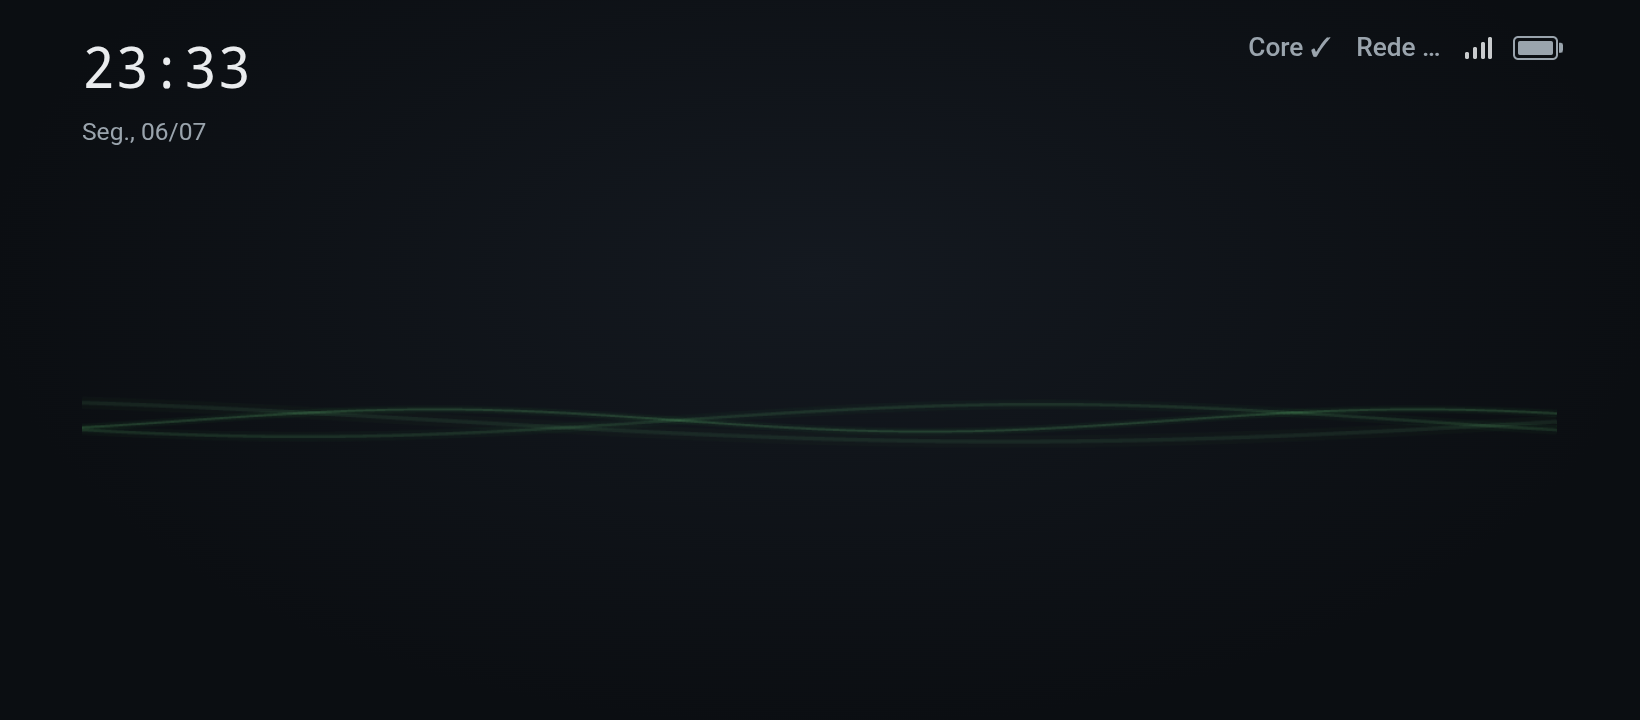
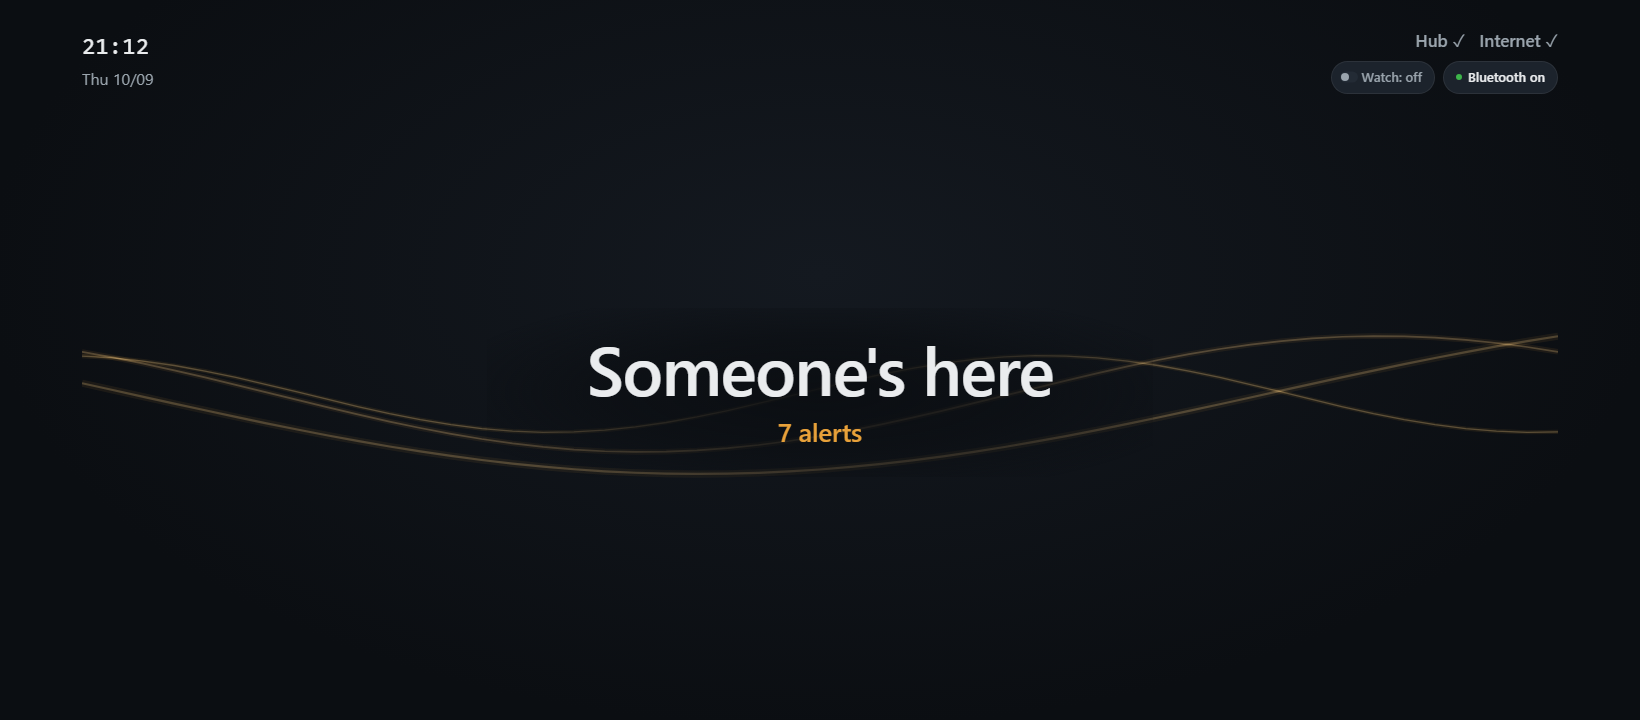
release: the build the first tag found, and a README that matches the product (#3)
* readme: show the Wavr that exists now

Three of the four screenshots were from July. `demo.png` showed a navigation
renamed in 0.3.0 — Home / History / Network / Devices / System — and a
composition replaced in this release: the sensing meter as the dominant block,
the map in a right-hand column. `hero.gif` predates the same rename. Anyone
landing on this repository saw two versions of Wavr, one of them on screen and
one of them true.

Replaced with the current UI, and the captions with them. The Core panel's read
"glance-free status in the corners: clock, Core and network health" — the clock
is no longer the headline and the state is no longer in a corner, so the caption
now says what the surface does: what is happening in your Space is the largest
thing on it.

Also: a mobile screenshot in place of a platforms montage, because a real screen
argues better than a diagram of screens; one row in "What you get" for the
composition itself; and the opening line says "a physical Space" rather than "a
map of your space", which is the noun the product uses everywhere else.

Same number of images as before. Every relative link, image path, documented
command and the promised exit codes were checked against this tree.

* release: install the extra the freeze spec refuses to build without

`wavr-core.spec` will not produce a Core without `zeroconf`, and says why in the
error it raises: that import is lazy, so a build without it SUCCEEDS and ships a
[…]

diff --git a/backend/tests/test_the_release_installs_what_the_spec_demands.py b/backend/tests/test_the_release_installs_what_the_spec_demands.py
@@ -1,0 +1,87 @@
+"""The freeze spec states its requirements. Something has to satisfy them.
+
+`desktop/sidecar/wavr-core.spec` refuses to build a Core without `zeroconf`,
+and explains why in the error it raises: that import is lazy, so a build
+WITHOUT it succeeds and produces a Core that never advertises `_wavr._tcp` —
+and the phone's "Find your Wavr hub" then spends a minute failing to find a hub
+that was never there. The guard exists because that shipped once.
+
+The release workflow installed `backend` with no extras. So the guard fired,
+the Windows job died at `pip install`, and the two jobs after it — the installer
+smoke test and the draft release — were skipped. No artifacts, no release.
+
+Nobody knew, because this repository has no releases: the first real tag was
+the first time that job ran to the end.
+
+This is the missing half. The spec declares what it needs; this asserts the
+workflow installs it. A requirement with nobody satisfying it is the defect
+class this repository names out loud in its own contributing guide — *a
+guarantee needs a producer* — and here the guarantee had been written down for
+months with nothing on the other side of it.
+"""
+from __future__ import annotations
+
+import re
+from pathlib import Path
+
+import pytest
+
+ROOT = Path(__file__).resolve().parents[2]
+SPEC = ROOT / "desktop" / "sidecar" / "wavr-core.spec"
+RELEASE = ROOT / ".github" / "workflows" / "release.yml"
+PYPROJECT = ROOT / "backend" / "pyproject.toml"
+
+# module name -> the extra in backend/pyproject.toml that provides it
+PROVIDED_BY = {
+    "zeroconf": "mdns",
+    "ifaddr": "mdns",        # zeroconf's own dependency, named by the spec too
+}
+
+
+def _spec_requirements() -> list[str]:
+    """The modules the spec refuses to build without, read from the spec."""
+    src = SPEC.read_text(encoding="utf-8")
+    block = re.search(r"for _needed, _why in \((.*?)\n\):", src, re.S)
+    assert block, "the spec's requirement loop is no longer recognisable here"
+    return re.findall(r'\(\s*"([a-z0-9_]+)"', block.group(1))
+
+
+def _sidecar_install_lines() -> list[str]:
+    """The pip lines in the job that freezes the Core."""
+    yml = RELEASE.read_text(encoding="utf-8")
+    job = yml[yml.index("build the bundled Core sidecar"):]
+    job = job[:job.index("- name:", 1)]
+    return [l.strip() for l in job.splitlines() if "pip install" in l]
+
+
+def test_the_spec_still_states_its_requirements():
+    """The control. If the spec stops guarding, this file is asserting nothing
+    and should fail loudly rather than pass emptily."""
+    needed = _spec_requirements()
+    assert needed, "the spec no longer refuses to build without anything"
+    assert "zeroconf" in needed, needed
+
+
+@pytest.mark.parametrize("module", sorted(PROVIDED_BY))
+def test_the_release_job_installs_it(module):
+    if module not in _spec_requirements():
+        pytest.skip(f"the spec no longer requires {module}")
+    extra = PROVIDED_BY[module]
+    lines = _sidecar_install_lines()
+    assert any(f"[{extra}]" in l for l in lines), (
+        f"the spec refuses to build without {module!r}, which comes from the "
+        f"`{extra}` extra, and the release job installs:\n  "
+        + "\n  ".join(lines)
+        + "\nThe build will die at pip install, and the smoke test and the "
+          "draft release will be skipped with it.")
+
+
+def test_the_extra_exists_and_provides_it():
+    """And the extra is not a name invented by this test."""
+    toml = PYPROJECT.read_text(encoding="utf-8")
+    block = re.search(r"\[project\.optional-dependencies\](.*?)(\n\[|\Z)",
+                      toml, re.S)
+    assert block, "backend/pyproject.toml declares no optional dependencies"
+    assert re.search(r"^\s*mdns\s*=", block.group(1), re.M), (
+        "the `mdns` extra the release job installs does not exist")
+    assert "zeroconf" in block.group(1), "the mdns extra does not ship zeroconf"

diff --git a/README.md b/README.md
@@ -3,10 +3,10 @@
 [![tests](https://github.com/augbastos/wavr/actions/workflows/tests.yml/badge.svg)](https://github.com/augbastos/wavr/actions/workflows/tests.yml)
 [![license: AGPL-3.0-or-later](https://img.shields.io/badge/license-AGPL--3.0--or--later-green.svg)](LICENSE)
 
-**Your network already knows which of your devices are home. Wavr turns that — plus whatever sensors
-you own — into a live, explainable map of your space, running entirely on hardware you own.**
+**Your network already knows which of your devices are present. Wavr turns that — plus whatever sensors
+you own — into a live, explainable model of a physical Space, running entirely on hardware you own.**
 
-![Wavr — live per-room presence on a 3D map of your own home, fused from network, Bluetooth and camera, running on your local network](docs/hero.gif)
+![The Wavr Space view: a 3D map of a home with occupied rooms lit green and people shown as markers, a one-line state headline above it, and a column beside it showing who is here and how much is being sensed](docs/img/space.png)
 
 Every room gets one answer, and **"I don't know" is more than one of them**: occupied, empty, a sensor
 that is switched off or has stopped answering, or nothing watching at all. The first two carry a
@@ -30,12 +30,15 @@ first time it runs, because they are not vendored here.
 | **Built for agents** | A read-only MCP server (stdio + HTTP) hands `RoomState` and the house map to your own agents as structured context. Home Assistant control is a separate, opt-in, default-OFF tool. |
 | **Local by construction** | Loopback-only out of the box. Cameras boot OFF and frames never touch disk. A credential goes only where the authentication protocol needs it — never into a log, a response body, or a screen. |
 | **You are the admin** | You draw the rooms, switch every sensor on and off, and decide what — if anything — is ever shared. |
+| **The Space is the screen** | The dashboard opens on the map, at the size a subject gets, with a room's evidence one tap away beside it. Everything that configures Wavr sits around that rather than on top of it. |
 
 **Try it with nothing installed:** open `frontend/index.html` in a browser. Opened from the filesystem
 the dashboard switches itself to a built-in simulator, says so on screen, and makes zero network
 requests.
 
-![Wavr Command Center — a 3D house map with per-person markers, per-room confidence rings, the Off/Presence/Precise sensing meter, and explainable per-modality fusion](docs/img/demo.png)
+![A room selected in Wavr: its card opens beside the map showing each sensor's own reading — camera present at 90% confident, Wi-Fi active but disagreeing, network reporting no sensor in that room — with the map still on screen](docs/img/room-evidence.png)
+
+*Select a room and its evidence opens beside the Space, not under it: what each sensor sees, how sure it is, and how long ago. The fused answer never hides the readings it came from.*
 
 ---
 
@@ -87,12 +90,14 @@ what you need; add more later.
 | **Core** | [`core-launcher/`](core-launcher/) — an always-on appliance that *is* the hub: ambient panel, mDNS discovery, kiosk launcher. It has run on a dedicated Android phone; a mini PC or Raspberry Pi is a supported install route that has never been exercised on that hardware ([`docs/INSTALL.md`](docs/INSTALL.md)). |
 | **MCP** | [`backend/wavr/mcp_serve.py`](backend/wavr/) — read-only presence for your own agents, over stdio or HTTP. |
 
-![One brain, every screen — the same open core as a web dashboard, a Tauri desktop app, a certificate-pinned Android companion, and the always-on Core hub](docs/img/card-platforms.png)
+![The same Space view on a phone in portrait: the state headline, the map, and the rooms beneath it, with a bottom tab bar](docs/img/mobile.png)
 
-![The Wavr Core ambient panel — a calm green-wave presence face over a dark screen, with glance-free status in the corners: clock, Core and network health, Wi-Fi signal and battery](docs/img/core-panel.png)
+*The same fusion engine on a phone — composed for the screen rather than scaled down to it.*
 
-*The Core's ambient panel: readable from across the room. Waking the full dashboard takes the admin PIN
-or a fingerprint.*
+![The Wavr Core ambient panel — the state of the Space in large type at the centre of a dark screen, anything needing attention directly beneath it, an ambient wave behind, and the clock and connection health small in the corners](docs/img/core-panel.png)
+
+*The Core's ambient panel. What is happening in your Space is the largest thing on it — the clock is not — so it answers from across the room.
+Waking the full dashboard takes the admin PIN or a fingerprint.*
 
 ---
 
